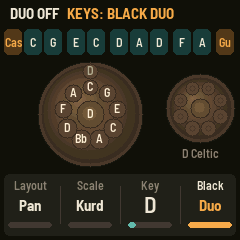
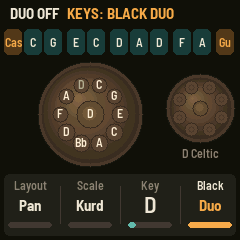
Screen: every note in one even ring; the black-key strip always above the pans
0.4.0 left a lone extra note squeezed in near the rim over the top fields
(the white keys now reach one past Kurd's own fields, not six), and the
second pan's eight fields crowded a large ding. Every note now sits in one
ring round the ding, evenly spaced, in the zigzag (the extra ones' labels
quieter); the second pan's ding is smaller and its fields evenly round it.
The black-key strip sits above the pans in every mode, as the black keys
sit above the white.

diff --git a/firmware/src/app/ui.c b/firmware/src/app/ui.c
@@ -922,27 +922,22 @@ static void draw_pan(int32_t y0, int32_t y1)
         if (g > 1)
             cv_ring(cx, cy, 15 + g / 4, 16 + g / 4, 0, mix(mix(dark, light, 8), K_GLOW, g));
     }
-    /* every note the keys play: the ding; round it the pan's own fields, the low ones the biggest; and
-     * near the rim, smaller, the notes past them (an extended pan's), the zigzag going on */
-    if (own > all)
-        own = all;
+    /* every note the keys play: the ding, and round it in one ring, evenly spaced, the fields climbing
+     * in the zigzag, the low ones the biggest; the notes past the pan's own fields (an extended pan's)
+     * carry the ring on, their labels a little quieter */
     for (i = 0; i < all; i++) {
         int c = tune(n[i]);
-        spot_t s;
-        if (!i)
-            s = (spot_t){(int16_t)cx, (int16_t)cy, 13};
-        else if (i < own)
-            s = ring_spot(i - 1, own - 1, first, cx, cy, R * 53 / 100, 9 - (i - 1) / 4);
-        else
-            s = ring_spot(i - own, all - own, first, cx, cy, R * 83 / 100, 7);
+        spot_t s = i ? ring_spot(i - 1, all - 1, first, cx, cy, R * (all > 10 ? 58 : 54) / 100,
+                                 all > 10 ? 8 - (i - 1) / 5 : 9 - (i - 1) / 4)
+                     : (spot_t){(int16_t)cx, (int16_t)cy, 13};
         draw_field(s, c, (int)ripple_age(ui.ripple[i]), note_level(c), i == 0, dark, light, ink, i < own ? 1 : 2);
     }
     if (duo) {   /* the second pan, smaller, to the right: its ding and eight fields, evenly round it */
         const int32_t dx = 200, dy = cy - 6, dr = 34;
         draw_shell(dx, dy, dr, dark, light, (int[2]){0, 0});
         for (i = 0; i < KM_NDUO; i++) {
-            spot_t s = i ? ring_spot(i - 1, KM_NDUO - 1, first, dx, dy, dr * 66 / 100, 7 - (i - 1) / 4)
-                         : (spot_t){(int16_t)dx, (int16_t)dy, 9};
+            spot_t s = i ? ring_spot(i - 1, KM_NDUO - 1, first, dx, dy, dr * 68 / 100, 6)
+                         : (spot_t){(int16_t)dx, (int16_t)dy, 7};
             int c = duo_cents(i);
             draw_field(s, c, (int)ripple_age(ui.ripple[KM_NPAN + i]), note_level(c), i == 0, dark, light, ink, 0);
         }
@@ -1020,13 +1015,8 @@ static void draw_main(void)
         return;
     ui.sig[1] = h;
     cv_begin(240, MAIN_H, K_BG);
-    if (proj.par[P_BLACK] == BLK_DUO) {              /* the black keys over the pans (the keys' upper row) */
-        draw_black(1);
-        draw_pan(29, MAIN_H);
-    } else {
-        draw_pan(0, 112);
-        draw_black(114);
-    }
+    draw_black(1);                                   /* the black keys over the pans (the keys' upper row) */
+    draw_pan(29, MAIN_H);
     cv_blit(0, MAIN_Y);
 }
 

diff --git a/README.md b/README.md
@@ -91,8 +91,8 @@ on the next one in, each on its own side of the shell. In D Kurd (the default pa
 
 The pan's own notes are the ding and its 7 to 9 fields. The outer note keys carry the scale on up, as
 the extra fields of an extended ("mutant") pan do. The screen shows every note the keys play on the
-pan: the ding in the middle, the pan's own fields evenly round it, and the extra notes in a ring near
-the rim, all climbing in the same zigzag from the player's side. The ding's keys glow dimly so you can
+pan: the ding in the middle and every other note in one ring round it, evenly spaced, climbing in the
+same zigzag from the player's side (the extra notes' labels a little quieter). The ding's keys glow dimly so you can
 find the center without looking.
 
 ### Black keys: the kit, the second pan
@@ -246,8 +246,8 @@ of nothing, keeps everything. The Setup page is kept either way.
 - **The pan from above**, shaded in its metal. Each field shows its note, glows as it rings, and
   sends a ripple out when struck. A thwap or tak lights the rim on that side; the Gu breathes in a
   ring round the ding. With Duo, the second pan stands to the right.
-- **The black-key strip:** what each black key does now, under the pan. With Duo it moves above the
-  pans, as the black keys sit above the white. The hand percussion (castanets, shakers, splash) is
+- **The black-key strip:** what each black key does now, above the pan, as the black keys sit above
+  the white. The hand percussion (castanets, shakers, splash) is
   amber, the steel's kit or the second pan's notes teal, and each lights as it sounds.
 - **The knobs:** the page's four values. The one you turned is highlighted for a moment.
 

diff --git a/CHANGELOG.md b/CHANGELOG.md
@@ -12,6 +12,9 @@ taken from its section below. Add the section in the same pull request as the `V
 - **The shakers are egg shakers.** They're high and airy, nearly all 6 to 16 kHz. The left key is the
   push stroke, which swells a little slower and lasts longer; the right is the pull, a quicker snap.
 - Both are shaped against recordings of real cymbals and egg shakers.
+- **A tidier pan on the screen.** Every note now sits in one evenly spaced ring round the ding,
+  instead of a lone extra note squeezed in near the rim. The second pan's fields have more room.
+- **The black-key strip is always above the pan**, as the black keys are above the white.
 
 ## 0.4.0
 
